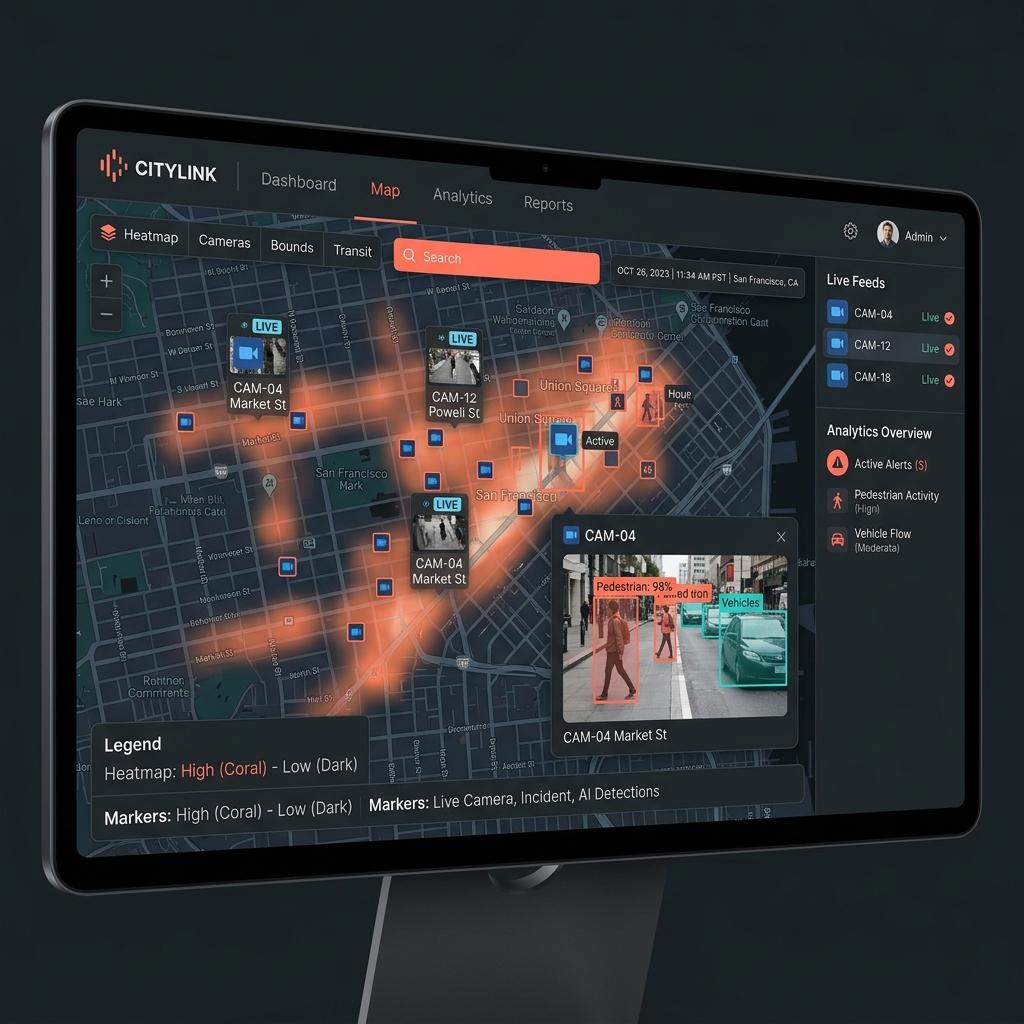
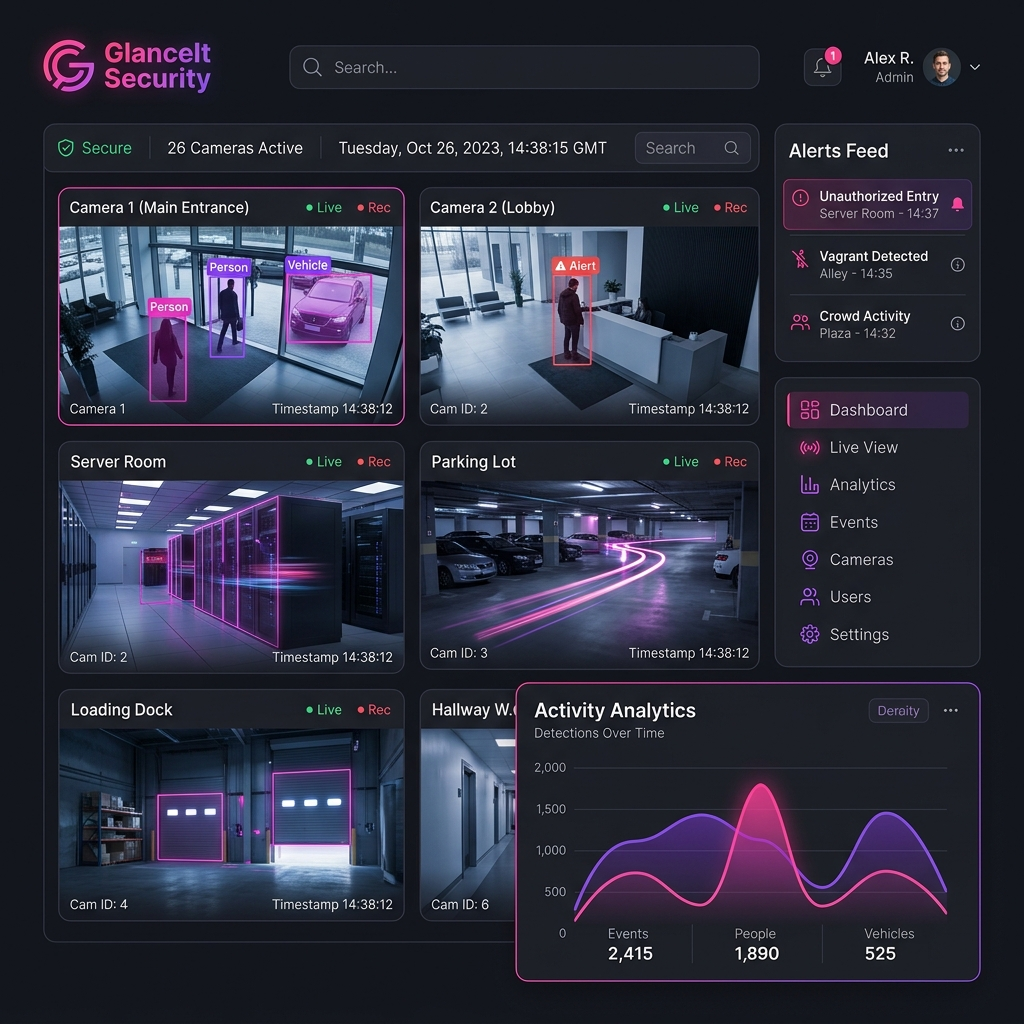
style: fix Pricing table alignment and column wrapping, update dashboard images to GlanceIt

diff --git a/src/components/LandingPage/Pricing/Pricing.jsx b/src/components/LandingPage/Pricing/Pricing.jsx
@@ -147,12 +147,13 @@ export const Pricing = () => (
             <div
               key={t.name}
               style={{
-                padding: "28px 24px",
+                padding: "28px 16px",
                 borderLeft: `1px solid ${C.border}`,
                 background: t.highlight
                   ? "rgba(82,107,70,0.05)"
                   : "transparent",
                 position: "relative",
+                textAlign: "center",
               }}
             >
               {t.highlight && (
@@ -215,11 +216,13 @@ export const Pricing = () => (
               <div
                 key={j}
                 style={{
-                  padding: "18px 24px",
+                  padding: "18px 12px",
                   borderLeft: `1px solid ${C.border}`,
                   background: j === 1 ? "rgba(82,107,70,0.04)" : "transparent",
                   display: "flex",
                   alignItems: "center",
+                  justifyContent: "center",
+                  textAlign: "center",
                 }}
               >
                 {val === true ? (
@@ -230,7 +233,7 @@ export const Pricing = () => (
                     style={{ color: C.textMuted, opacity: 0.4 }}
                   />
                 ) : (
-                  <span style={{ color: C.textSecondary, fontSize: "0.88rem" }}>
+                  <span style={{ color: C.textSecondary, fontSize: "0.88rem", whiteSpace: "nowrap" }}>
                     {val}
                   </span>
                 )}
